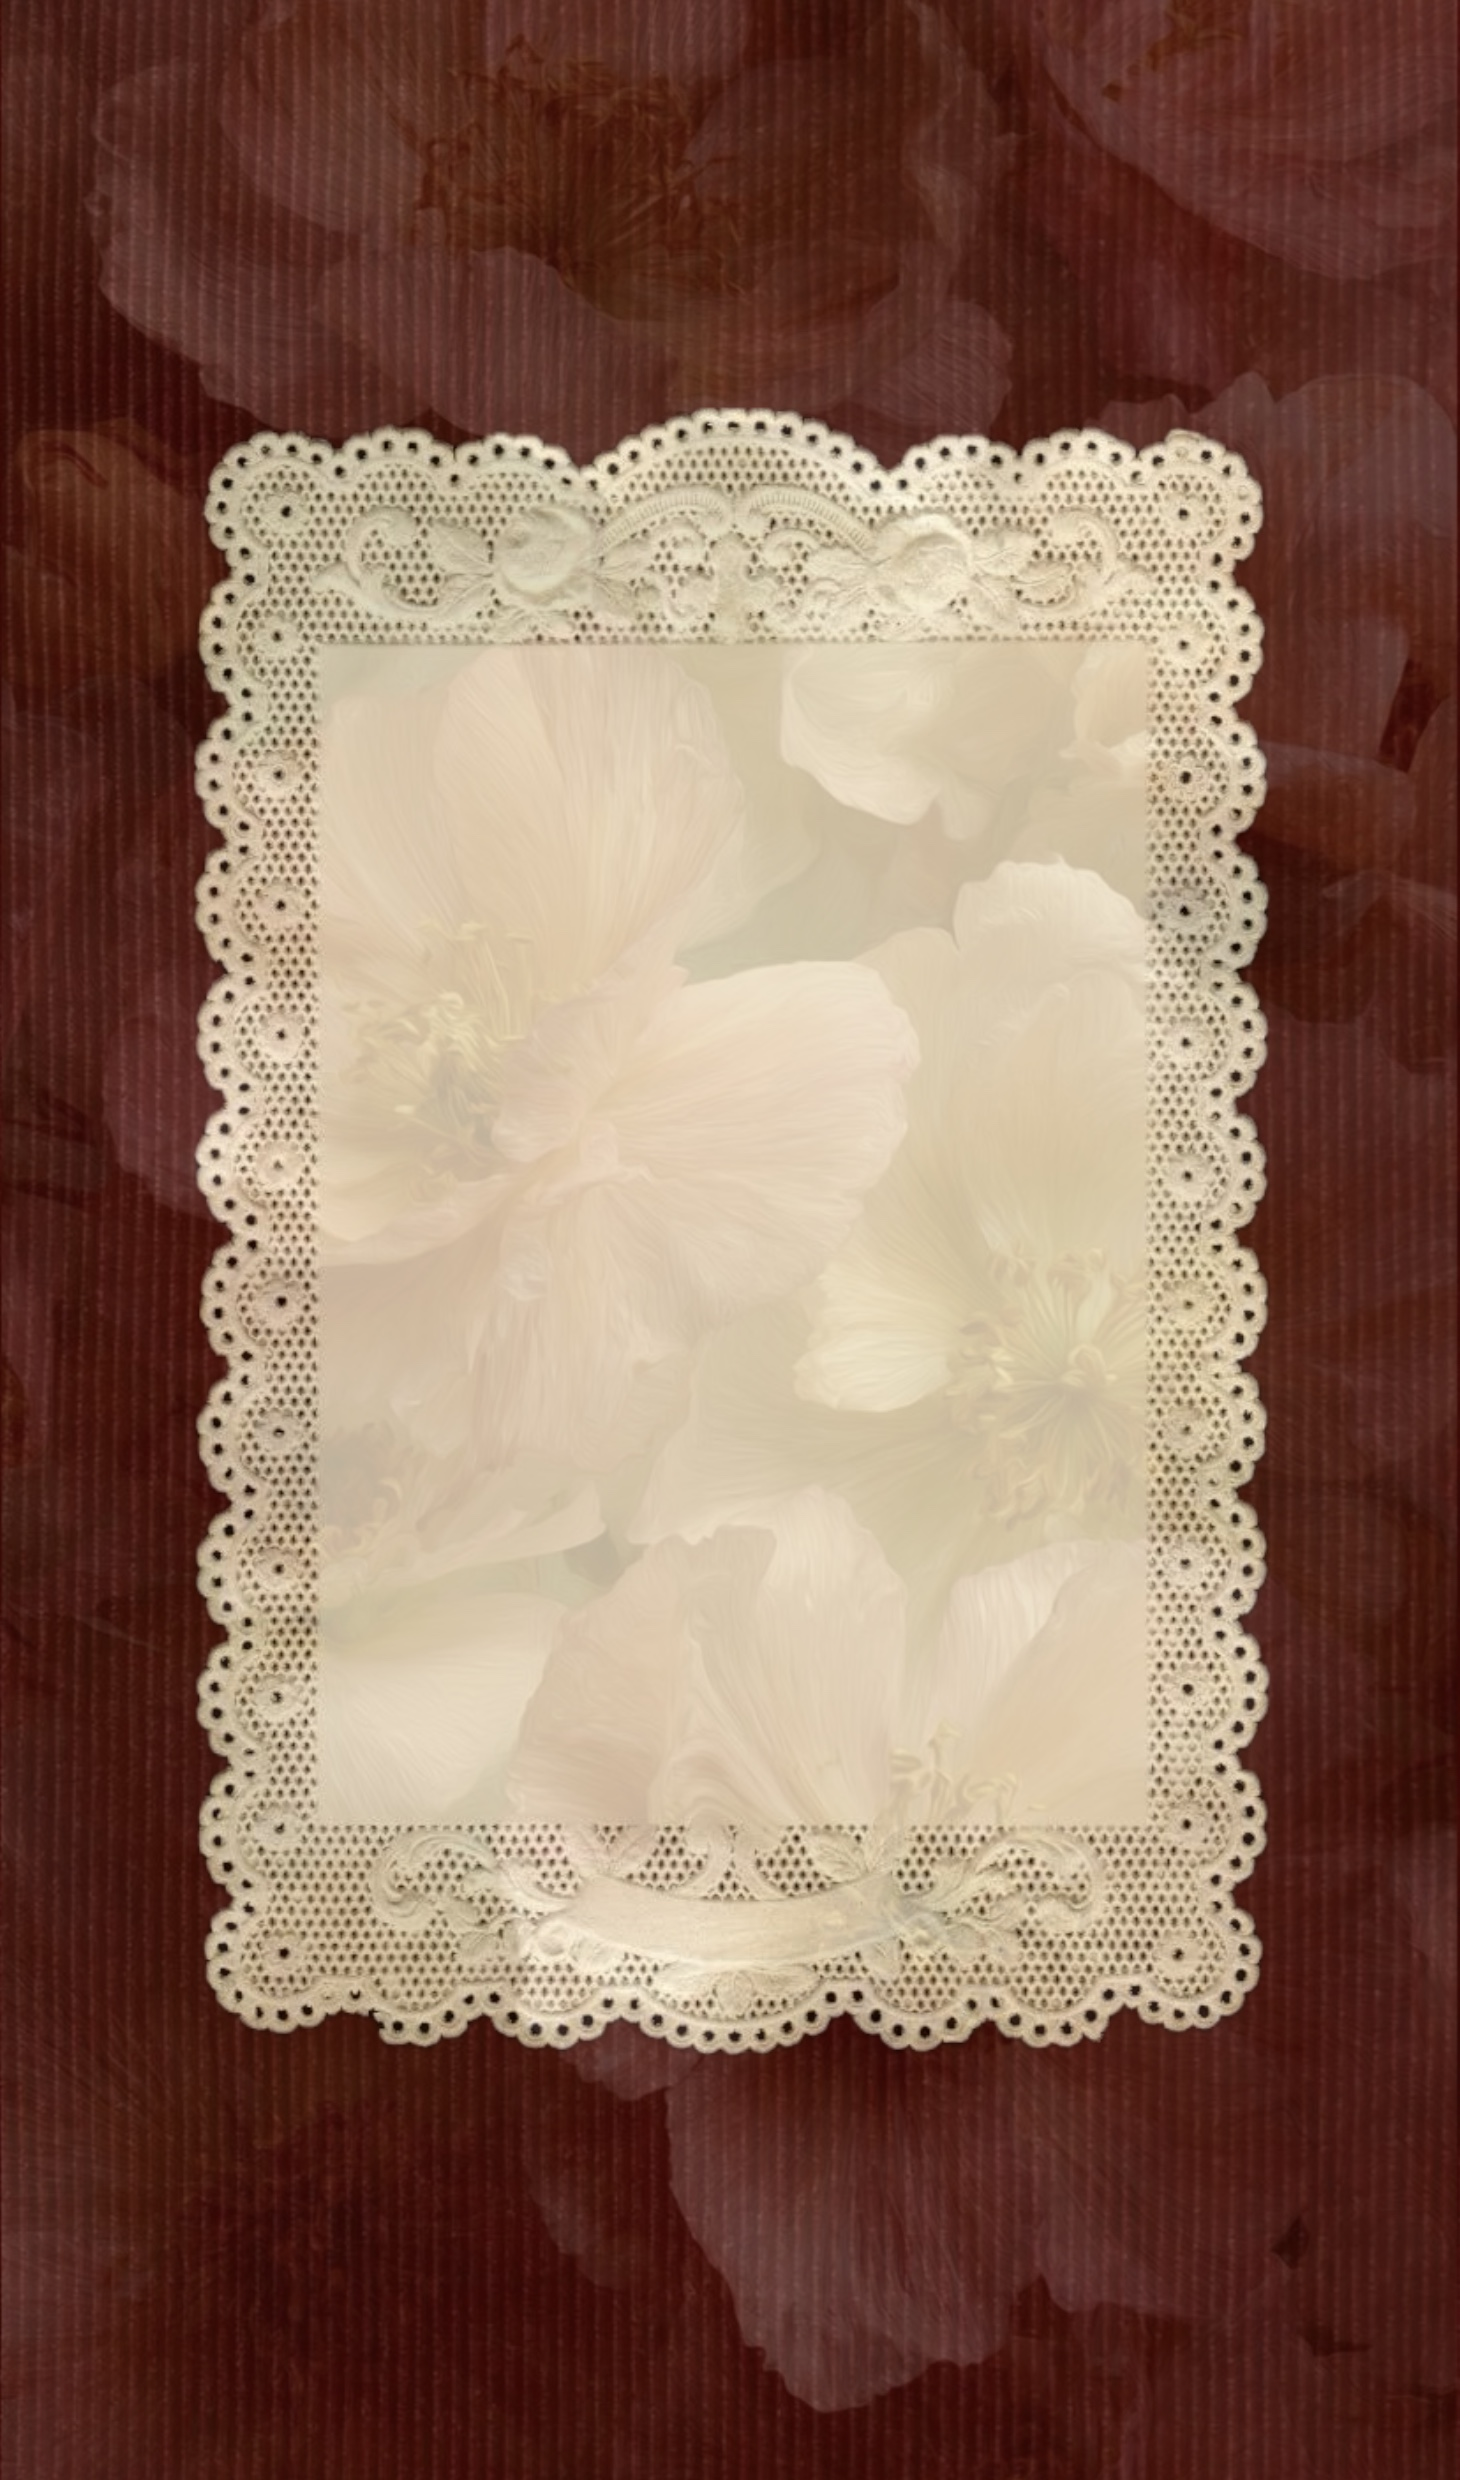
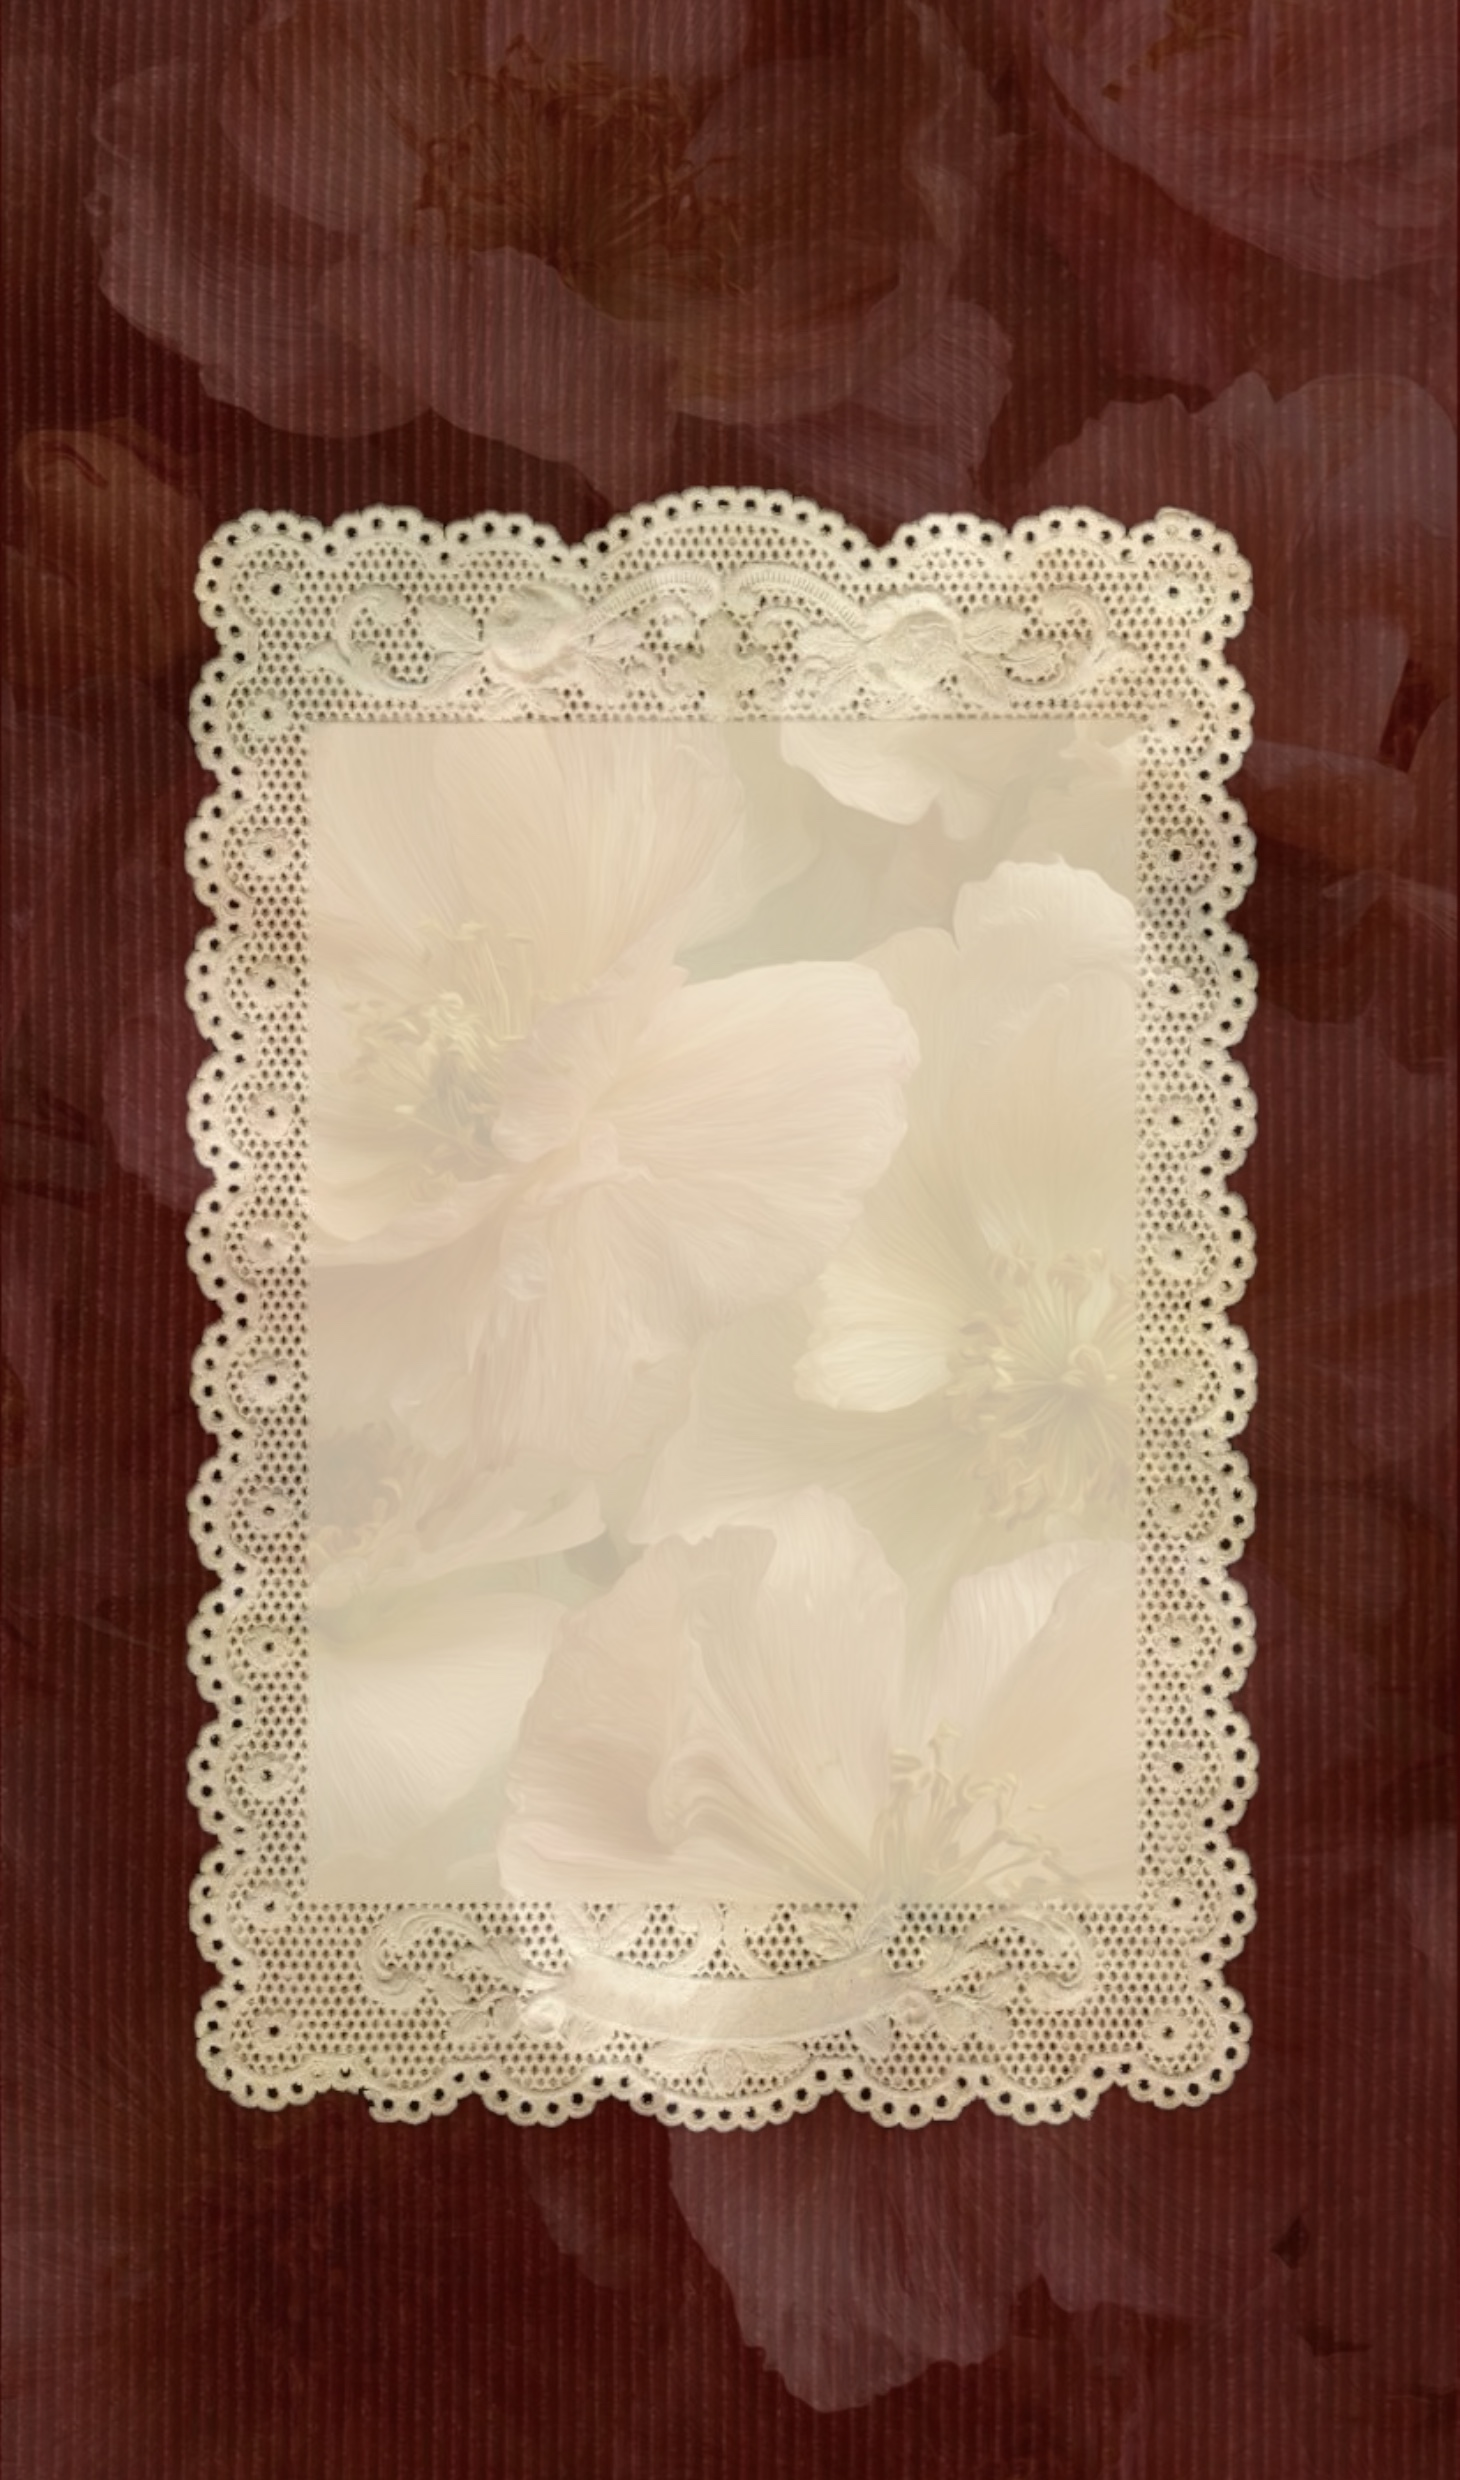
update

Changed region(s): [[0.1233, 0.1552, 0.8938, 0.8694]]

diff --git a/components/CinematicScene.tsx b/components/CinematicScene.tsx
@@ -1,6 +1,7 @@
 'use client';
 import React, { useRef, useLayoutEffect, useMemo, useState, useEffect } from 'react';
 import { useFrame, useThree } from '@react-three/fiber';
+import { useSearchParams } from 'next/navigation';
 import { useScroll, useTexture, PerspectiveCamera, Html } from '@react-three/drei';
 import * as THREE from 'three';
 import { backgroundTextures, slideElementTextures, decorationTextures } from '../app/cinematicTextures';
@@ -759,6 +760,22 @@ export function CinematicScene() {
   const { viewport } = useThree();
   const slidesGroup = useRef<THREE.Group>(null);
 
+  // Fetch URL search parameters safely
+  const searchParams = useSearchParams();
+
+  // Handles both standard '?to=Name' and raw '?Name' formats smoothly
+  const guestName = useMemo(() => {
+    const toParam = searchParams.get('to');
+    if (toParam) return decodeURIComponent(toParam);
+
+    // Fallback for raw query parameters like ?Elowen
+    const rawKeys = Array.from(searchParams.keys());
+    if (rawKeys.length > 0 && rawKeys[0] !== '') {
+      return decodeURIComponent(rawKeys[0]);
+    }
+    return null; // Fallback if no guest name is provided
+  }, [searchParams]);
+
   const texturePaths = useMemo(() => [
     ...backgroundTextures,
     ...slideElementTextures.flat(),
@@ -1014,14 +1031,14 @@ export function CinematicScene() {
   const [orchidTex, goldMotifTex, petalTex, customOrnamentTex, logo1Tex, text11Tex, text12Tex, text13Tex, text14Tex, text15Tex, bunga1Tex, bunga2Tex, bunga3Tex, couple2Tex, border2Tex, text21Tex, text22Tex, text23Tex, surah3Tex, terjemah3Tex, bride4Tex, text41Tex, text42Tex, text43Tex, bride5Tex, text51Tex, text52Tex, text53Tex, border6Tex, text61Tex, text62Tex, text71Tex, text72Tex, text7AkadTex, text7AkadTglTex, text7ResepsiTex, text7ResepsiTglTex, text7AlamatTex, text7AlamatJlnTex, text81Tex, text82Tex, palette8Tex, text91Tex, text92Tex, text93Tex, text94Tex, image91Tex, image92Tex, text111Tex, text121Tex, text122Tex, border12Tex, logo131Tex] = loadedTextures.slice(pointer);
 
   const introSlideConfig = [
-    { type: 'SlideText', tex: logo1Tex, x: 1, y: 16.5, sizeMult: 0.1, delay: 2, multiplier: 0.12, zOffset: 2 },
-    { type: 'SlideText', tex: text11Tex, x: 1, y: 0, sizeMult: 0.68, delay: 2, multiplier: 0.12, zOffset: 2 },
-    { type: 'SlideText', tex: text12Tex, x: 1, y: 1, sizeMult: 0.68, delay: 2, multiplier: 0.12, zOffset: 2 },
-    { type: 'SlideRotate', tex: text13Tex, x: 1, y: -1.5, sizeMult: 0.26, delay: 2, multiplier: 0.12, zOffset: 2, rotateSpeed: 1.5, rotateAmount: 0.1, pivot: "middle" },
-    { type: 'SlideText', tex: text14Tex, x: -2, y: -6, sizeMult: 0.4, delay: 2, multiplier: 0.12, zOffset: 2 },
-    { type: 'SlideRotate', tex: text15Tex, x: 0, y: -12, sizeMult: 0.23, delay: 2, multiplier: 0.12, zOffset: 2, rotateSpeed: 2, rotateAmount: 0.08, pivot: "middle" },
-    { type: 'SlideRotate', tex: bunga1Tex, x: -25, y: 20, sizeMult: 0.5, delay: 0, multiplier: 0.2,rotateSpeed: 1.8, rotateAmount: 0.1, pivot: "middle" },
-    { type: 'SlideRotate', tex: bunga2Tex, x: 24, y: -14.5, sizeMult: 0.5, delay: 1, multiplier: 0.25, rotateSpeed: 2, rotateAmount: 0.08, pivot: "middle" },
+    { type: 'SlideText', tex: logo1Tex, x: 1, y: 13.5, sizeMult: 0.1, delay: 2, multiplier: 0.12, zOffset: 2 },
+    { type: 'SlideText', tex: text11Tex, x: 1, y: -3, sizeMult: 0.68, delay: 2, multiplier: 0.12, zOffset: 2 },
+    { type: 'SlideText', tex: text12Tex, x: 1, y: -2, sizeMult: 0.68, delay: 2, multiplier: 0.12, zOffset: 2 },
+    { type: 'SlideRotate', tex: text13Tex, x: 1, y: -4.5, sizeMult: 0.26, delay: 2, multiplier: 0.12, zOffset: 2, rotateSpeed: 1.5, rotateAmount: 0.1, pivot: "middle" },
+    { type: 'SlideText', tex: text14Tex, x: -2, y: -9, sizeMult: 0.4, delay: 2, multiplier: 0.12, zOffset: 2 },
+    { type: 'SlideRotate', tex: text15Tex, x: 0, y: -15, sizeMult: 0.23, delay: 2, multiplier: 0.12, zOffset: 2, rotateSpeed: 2, rotateAmount: 0.08, pivot: "middle" },
+    { type: 'SlideRotate', tex: bunga1Tex, x: -25, y: 17, sizeMult: 0.5, delay: 0, multiplier: 0.2,rotateSpeed: 1.8, rotateAmount: 0.1, pivot: "middle" },
+    { type: 'SlideRotate', tex: bunga2Tex, x: 24, y: -17.5, sizeMult: 0.5, delay: 1, multiplier: 0.25, rotateSpeed: 2, rotateAmount: 0.08, pivot: "middle" },
   ];
 
   const couplesSlideConfig = [
@@ -1181,6 +1198,21 @@ export function CinematicScene() {
               {slide.id === "intro" && (
                 <>
                   {introSlideConfig.map((config, i) => renderSlideElement(config, i, slideW, bgW, bgH))}
+                  {/* Dynamic Guest Name Overlay */}
+                  {guestName && (
+                    <group position={[0, 2.9, LAYERS.TEXT + 2]}> {/* Adjust Y position to fit layout */}
+                      <Html center portal={scroll.el?.parentElement as any}>
+                        <div className="flex flex-col items-center justify-center text-center select-none animate-fade-in pointer-events-none">
+                          <span className="text-[#F8F3ED]/50 font-sans tracking-[0.25em] text-[9px] uppercase mb-1">
+                            Dear
+                          </span>
+                          <h2 className="text-[#F8F3ED] font-serif text-xs tracking-widest font-medium drop-shadow-md px-4 py-1 border-y border-[#D4AF37]/20 whitespace-nowrap">
+                            {guestName}
+                          </h2>
+                        </div>
+                      </Html>
+                    </group>
+                  )}
                 </>
               )}
               {slide.id === "couples" && (

diff --git a/app/globals.css b/app/globals.css
@@ -1,5 +1,6 @@
+@import url('https://fonts.googleapis.com/css2?family=Ephesis&display=swap');
+@import url('https://fonts.googleapis.com/css2?family=Ms+Madi&display=swap');
 @import "tailwindcss";
-
 @theme {
   --color-brand-beige: #D1C7BD;
   --color-brand-bone: #F9F8F6;
@@ -43,6 +44,18 @@
   font-style: italic;
 }
 
+.ephesis-regular {
+  font-family: "Ephesis", cursive;
+  font-weight: 400;
+  font-style: normal;
+}
+
+.ms-madi-regular {
+  font-family: "Ms Madi", cursive;
+  font-weight: 400;
+  font-style: normal;
+}
+
 .text-shadow-safe {
   text-shadow: 0 1px 2px rgba(255, 255, 255, 0.8), 0 0 15px rgba(255, 255, 255, 0.4);
 }
@@ -84,11 +97,11 @@
   font-style: normal;
 }
 
-.font-cursive {
+/* .font-cursive {
   font-family: var(--font-cursive), cursive;
   font-weight: 400;
   font-style: normal;
-}
+} */
 
 body {
   background-color: var(--bg-beige);

diff --git a/components/MusicPlayer.tsx b/components/MusicPlayer.tsx
@@ -129,14 +129,14 @@ export function MusicPlayer() {
       `}</style>
 
       {/* Floating Controller Button */}
-      <div className="fixed bottom-6 right-7 z-[9999] flex flex-col items-center">
+      <div className="fixed bottom-2 right-7 z-[9999] flex flex-col items-center">
         <button
           onClick={togglePlay}
-          className="relative w-12 h-12 flex items-center justify-center bg-[#0A120D]/75 hover:bg-[#32101c]/90 border border-[#D4AF37]/35 hover:border-[#D4AF37] rounded-full shadow-2xl transition-all duration-300 group cursor-pointer backdrop-blur-md select-none active:scale-95"
+          className="relative w-12 h-12 flex items-center justify-center bg-[#0A120D]/15 hover:bg-[#32101c]/20 border border-[#D4AF37]/15 hover:border-[#D4AF37] rounded-full shadow-2xl transition-all duration-300 group cursor-pointer select-none active:scale-95"
           aria-label={isPlaying ? 'Pause Music' : 'Play Music'}
         >
           {/* Active Vinyl Disc Graphic */}
-          <div className={`absolute inset-1 border border-[#D4AF37]/20 rounded-full flex items-center justify-center bg-[#151C18] ${isPlaying ? 'animate-spin-vinyl' : ''}`}>
+          <div className={`absolute inset-1 border border-[#D4AF37]/10 rounded-full flex items-center justify-center bg-[#151C18]/15 ${isPlaying ? 'animate-spin-vinyl' : ''}`}>
             {/* Inner vinyl ridges */}
             <div className="absolute inset-2 border border-[#D4AF37]/15 rounded-full" />
             <div className="absolute inset-3 border border-[#D4AF37]/10 rounded-full" />

diff --git a/app/layout.tsx b/app/layout.tsx
@@ -25,8 +25,8 @@ const greatVibes = Great_Vibes({
 });
 
 export const metadata: Metadata = {
-  title: 'Elowen & Julian | Wedding Invitation',
-  description: 'Join us in celebrating the wedding of Elowen and Julian.',
+  title: 'Qonita & Bagja | Wedding Invitation',
+  description: 'Join us in celebrating the wedding of Qonita & Bagja.',
 };
 
 export default function RootLayout({ children }: { children: React.ReactNode }) {

diff --git a/app/svgTextures.ts b/app/svgTextures.ts
@@ -40,7 +40,8 @@ export const generateElementSvg = (element: any) => {
   if (!fontStack) {
     if (font === 'serif') fontStack = 'Georgia, serif';
     else if (font === 'sans') fontStack = 'Arial, sans-serif';
-    else if (font === 'cursive') fontStack = "'Monsieur La Doulaise', cursive";
+    else if (font === 'cursive') fontStack = "'Ephesis', cursive";
+    else if (font === 'msmadi') fontStack = "'Ms Madi', cursive";
     else fontStack = 'Georgia, serif';
   }
   const fillColor = (WEDDING_CONFIG.colors as any)[color] || color;